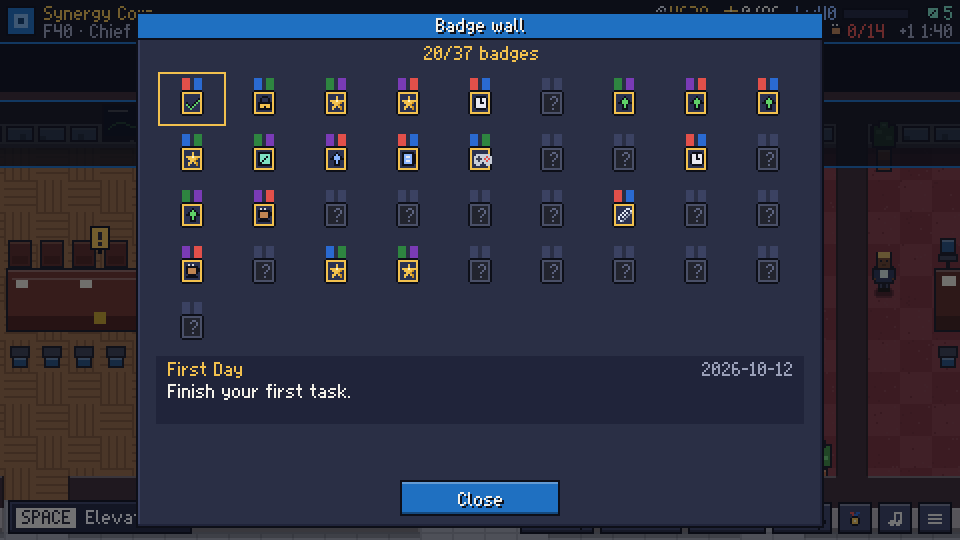
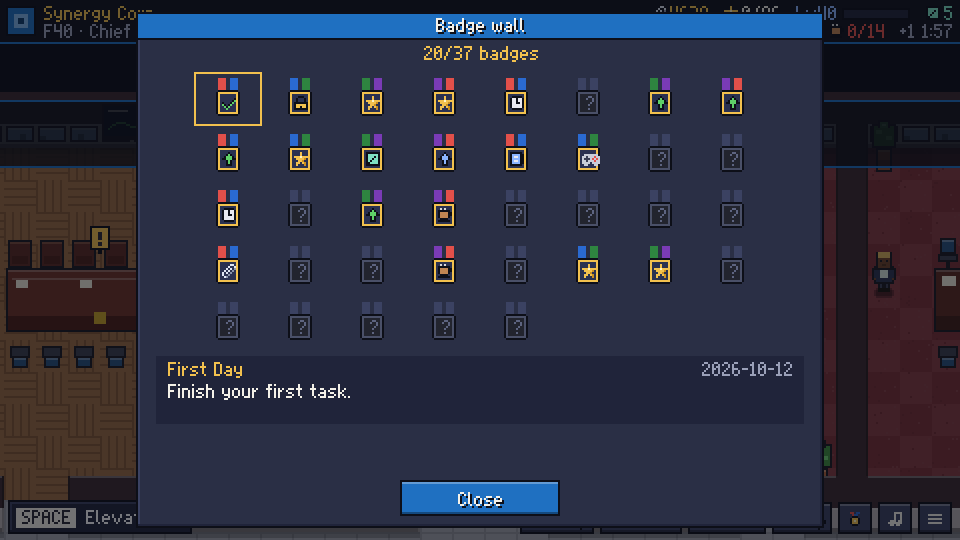
Badge wall: 8 columns, so the 37 badges end in a row of 5 instead of a lone one; guide screenshot updated
Claude-Session: https://claude.ai/code/session_01JGTPKxS9GQXYGcwkHC4nFn

diff --git a/tests/achievements.test.js b/tests/achievements.test.js
@@ -118,3 +118,12 @@ test('department mastery: 3 stars on every task of its five floors', () => {
   s.bestByTask[one] = 3;
   expect(ids(A.checkBadges(s, 2))).toEqual(['dept_finance']);
 });
+
+test('the badge wall has no lonely badge in its last row, and the grid fits the dialog', async () => {
+  const { installMockDocument } = await import('./mock-canvas.js');
+  installMockDocument();
+  const { COLS, CW } = await import('../src/scenes/badgeWall.js');
+  const last = A.BADGES.length % COLS || COLS;
+  expect(last).toBeGreaterThan(1);
+  expect(COLS * CW).toBeLessThanOrEqual(344 - 20);
+});

diff --git a/src/scenes/badgeWall.js b/src/scenes/badgeWall.js
@@ -5,8 +5,9 @@ import { BADGES } from '../core/achievements.js';
 import { dayKey } from '../core/daily.js';
 import { Modal } from './overlays.js';
 
-const COLS = 9;
-const CW = 36;
+// 37 badges: 8 columns make full rows and a last row of 5 (9 columns left a single badge on its own).
+export const COLS = 8;
+export const CW = 36;
 const CH = 28;
 const ROWS = Math.ceil(BADGES.length / COLS);
 const RIBBONS = ['#e2504a', '#2a6ad1', '#2e8540', '#7a3bb6'];
